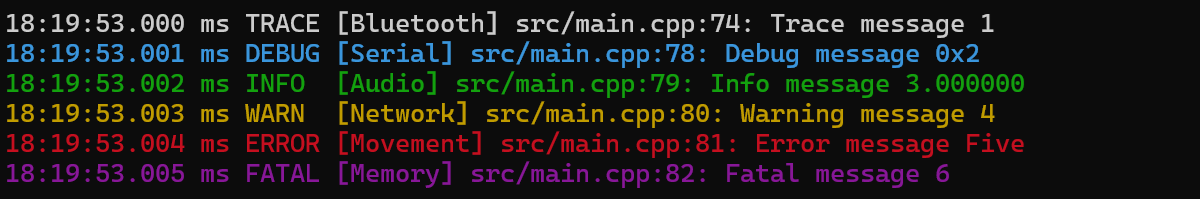
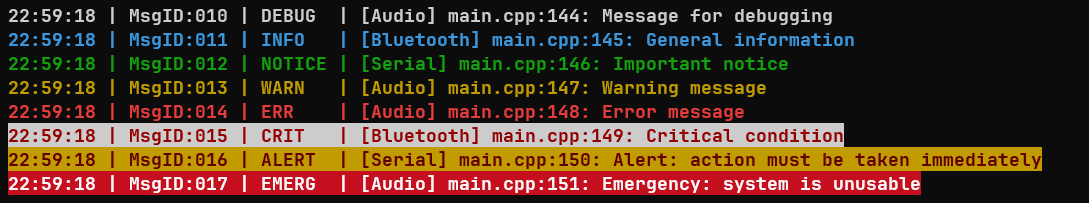
Update readme and example

diff --git a/include/ulog.h b/include/ulog.h
@@ -268,46 +268,50 @@ ulog_status ulog_output_remove(ulog_output_id output);
 ============================================================================ */
 
 // clang-format off
+
+#define ulog_topic_log(LEVEL, TOPIC_NAME,...) ulog_log_manual(LEVEL, __FILE__, __LINE__, TOPIC_NAME, __VA_ARGS__)
+#define ulog_t_log(...) ulog_topic_log(__VA_ARGS__) // Alias for `ulog_topic_log`
+
 /// @brief Log a TRACE level message with topic (requires ULOG_BUILD_TOPICS!=0 or
 /// ULOG_BUILD_DYNAMIC_CONFIG=1)
 /// @param TOPIC_NAME Topic name string
 /// @param ... Format string and arguments (printf-style)
-#define ulog_topic_trace(TOPIC_NAME, ...) ulog_log(ULOG_LEVEL_TRACE, __FILE__, __LINE__, TOPIC_NAME, __VA_ARGS__)
+#define ulog_topic_trace(TOPIC_NAME, ...) ulog_log_manual(ULOG_LEVEL_TRACE, __FILE__, __LINE__, TOPIC_NAME, __VA_ARGS__)
 #define ulog_t_trace(...) ulog_topic_trace(__VA_ARGS__) // Alias for `ulog_topic_trace`
 
 /// @brief Log a DEBUG level message with topic (requires ULOG_BUILD_TOPICS!=0 or
 /// ULOG_BUILD_DYNAMIC_CONFIG=1)
 /// @param TOPIC_NAME Topic name string
 /// @param ... Format string and arguments (printf-style)
-#define ulog_topic_debug(TOPIC_NAME, ...) ulog_log(ULOG_LEVEL_DEBUG, __FILE__, __LINE__, TOPIC_NAME, __VA_ARGS__)
+#define ulog_topic_debug(TOPIC_NAME, ...) ulog_log_manual(ULOG_LEVEL_DEBUG, __FILE__, __LINE__, TOPIC_NAME, __VA_ARGS__)
 #define ulog_t_debug(...) ulog_topic_debug(__VA_ARGS__)  // Alias for `ulog_topic_debug`
 
 /// @brief Log an INFO level message with topic (requires ULOG_BUILD_TOPICS!=0 or
 /// ULOG_BUILD_DYNAMIC_CONFIG=1)
 /// @param TOPIC_NAME Topic name string
 /// @param ... Format string and arguments (printf-style)
-#define ulog_topic_info(TOPIC_NAME, ...) ulog_log(ULOG_LEVEL_INFO, __FILE__, __LINE__, TOPIC_NAME, __VA_ARGS__)
+#define ulog_topic_info(TOPIC_NAME, ...) ulog_log_manual(ULOG_LEVEL_INFO, __FILE__, __LINE__, TOPIC_NAME, __VA_ARGS__)
 #define ulog_t_info(...) ulog_topic_info(__VA_ARGS__)  // Alias for `ulog_topic_info`
 
 /// @brief Log a WARN level message with topic (requires ULOG_BUILD_TOPICS!=0 or
 /// ULOG_BUILD_DYNAMIC_CONFIG=1)
 /// @param TOPIC_NAME Topic name string
 /// @param ... Format string and arguments (printf-style)
-#define ulog_topic_warn(TOPIC_NAME, ...) ulog_log(ULOG_LEVEL_WARN, __FILE__, __LINE__, TOPIC_NAME, __VA_ARGS__)
+#define ulog_topic_warn(TOPIC_NAME, ...) ulog_log_manual(ULOG_LEVEL_WARN, __FILE__, __LINE__, TOPIC_NAME, __VA_ARGS__)
 #define ulog_t_warn(...) ulog_topic_warn(__VA_ARGS__)  // Alias for `ulog_topic_warn`
 
 /// @brief Log an ERROR level message with topic (requires ULOG_BUILD_TOPICS!=0 or
 /// ULOG_BUILD_DYNAMIC_CONFIG=1)
 /// @param TOPIC_NAME Topic name string
 /// @param ... Format string and arguments (printf-style)
-#define ulog_topic_error(TOPIC_NAME, ...) ulog_log(ULOG_LEVEL_ERROR, __FILE__, __LINE__, TOPIC_NAME, __VA_ARGS__)
+#define ulog_topic_error(TOPIC_NAME, ...) ulog_log_manual(ULOG_LEVEL_ERROR, __FILE__, __LINE__, TOPIC_NAME, __VA_ARGS__)
 #define ulog_t_error(...) ulog_topic_error(__VA_ARGS__)  // Alias for `ulog_topic_error`
 
 /// @brief Log a FATAL level message with topic (requires ULOG_BUILD_TOPICS!=0 or
 /// ULOG_BUILD_DYNAMIC_CONFIG=1)
 /// @param TOPIC_NAME Topic name string
 /// @param ... Format string and arguments (printf-style)
-#define ulog_topic_fatal(TOPIC_NAME, ...) ulog_log(ULOG_LEVEL_FATAL, __FILE__, __LINE__, TOPIC_NAME, __VA_ARGS__)
+#define ulog_topic_fatal(TOPIC_NAME, ...) ulog_log_manual(ULOG_LEVEL_FATAL, __FILE__, __LINE__, TOPIC_NAME, __VA_ARGS__)
 #define ulog_t_fatal(...) ulog_topic_fatal(__VA_ARGS__)  // Alias for `ulog_topic_fatal`
 // clang-format on
 

diff --git a/example/main.cpp b/example/main.cpp
@@ -137,12 +137,16 @@ int main(int argc, char *argv[]) {
                   "ALERT  |", "EMERG  |"}};
     ulog_level_set_new_levels(&syslog_levels);
 
-    ulog_log(ULOG_LEVEL_0, "Message for debugging");
-    ulog_log(ULOG_LEVEL_1, "Normal informational message");
-    ulog_log(ULOG_LEVEL_2, "Important notice");
-    ulog_log(ULOG_LEVEL_3, "Warning message");
-    ulog_log(ULOG_LEVEL_4, "Error message");
-    ulog_log(ULOG_LEVEL_5, "Critical condition");
-    ulog_log(ULOG_LEVEL_6, "Alert: action must be taken immediately");
-    ulog_log(ULOG_LEVEL_7, "Emergency: system is unusable");
+    ulog_topic_enable_all();
+    ulog_topic_level_set("Audio", ULOG_LEVEL_0);
+    ulog_topic_level_set("Bluetooth", ULOG_LEVEL_0);
+    ulog_topic_level_set("Serial", ULOG_LEVEL_0);
+    ulog_t_log(ULOG_LEVEL_0, "Audio", "Message for debugging");
+    ulog_t_log(ULOG_LEVEL_1, "Bluetooth", "General information");
+    ulog_t_log(ULOG_LEVEL_2, "Serial", "Important notice");
+    ulog_t_log(ULOG_LEVEL_3, "Audio", "Warning message");
+    ulog_t_log(ULOG_LEVEL_4, "Audio", "Error message");
+    ulog_t_log(ULOG_LEVEL_5, "Bluetooth", "Critical condition");
+    ulog_t_log(ULOG_LEVEL_6, "Serial", "Alert: action must be taken immediately");
+    ulog_t_log(ULOG_LEVEL_7, "Audio", "Emergency: system is unusable");
 }

diff --git a/src/ulog.c b/src/ulog.c
@@ -1627,9 +1627,11 @@ ulog_status ulog_source_location_config(bool enabled) {
 /// @param ev - Event
 static void log_print_message(print_target *tgt, ulog_event *ev) {
 
+#if ULOG_HAS_SOURCE_LOCATION
     if (src_loc_config_is_enabled()) {
         print_to_target(tgt, "%s:%d: ", ev->file, ev->line);  // file and line
     }
+#endif  // ULOG_HAS_SOURCE_LOCATION
 
     if (!is_str_empty(ev->message)) {
         print_to_target_valist(tgt, ev->message,

diff --git a/README.md b/README.md
@@ -18,14 +18,18 @@ In the default configuration it looks like this:
 
 <img src="doc/README/demo0.png" width="800">
 
-...but in can be very minimalistic
+[Picture 1 - default configuration: no time, long default levels, source location, no topics, no colors]
+
+...but in can be very minimalistic :
 
 <img src="doc/README/demo1.png" width="800">
+
+[Picture 2 - short levels, no colors, no time, no source location]
 
 ... or feature-rich:
 
 <img src="doc/README/demo2.png" width="800">
-
+[Picture 3 - time, custom prefix for MsgID, custom syslog levels, topics, source location, colors]
 
 The project is based on several core principles:
 
@@ -43,6 +47,7 @@ The project is based on several core principles:
         - [1. Install](#1-install)
         - [2. Use](#2-use)
     - [Contributing](#contributing)
+    - [Changelog](#changelog)
     - [License](#license)
     - [Credits](#credits)
 
